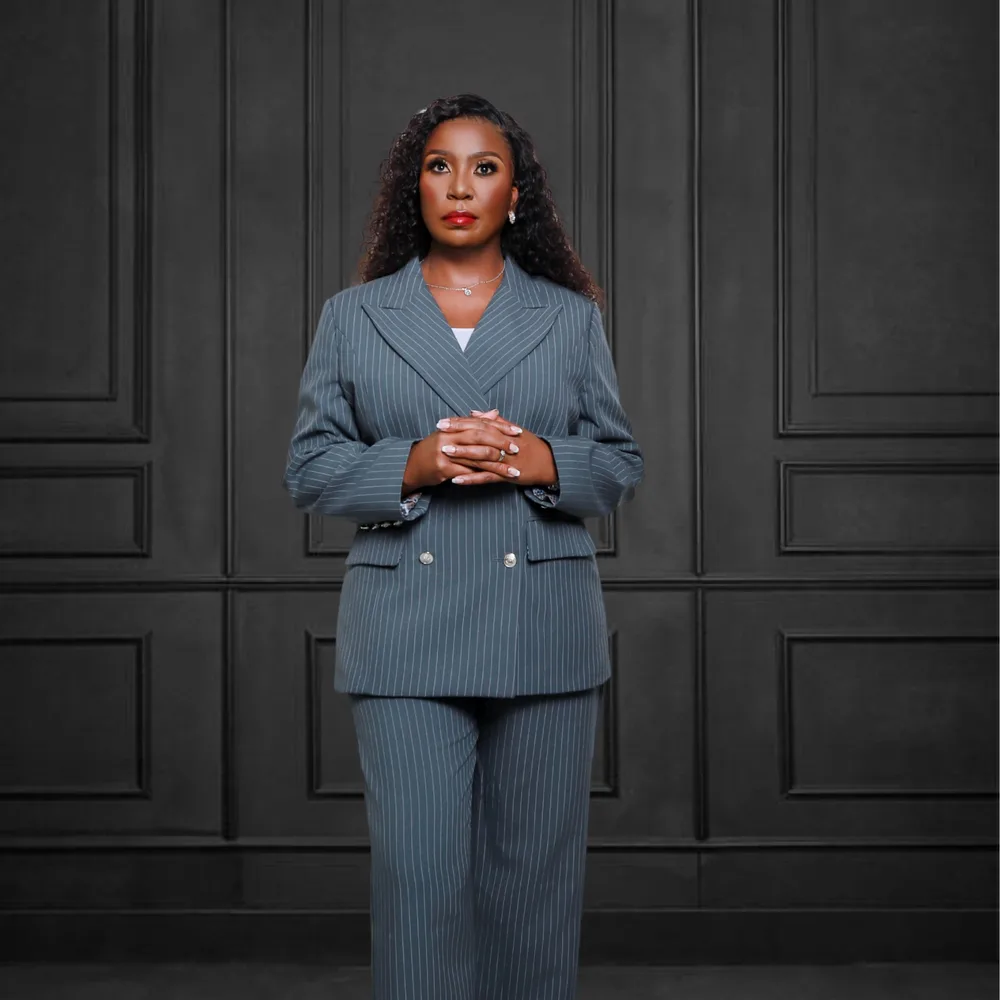
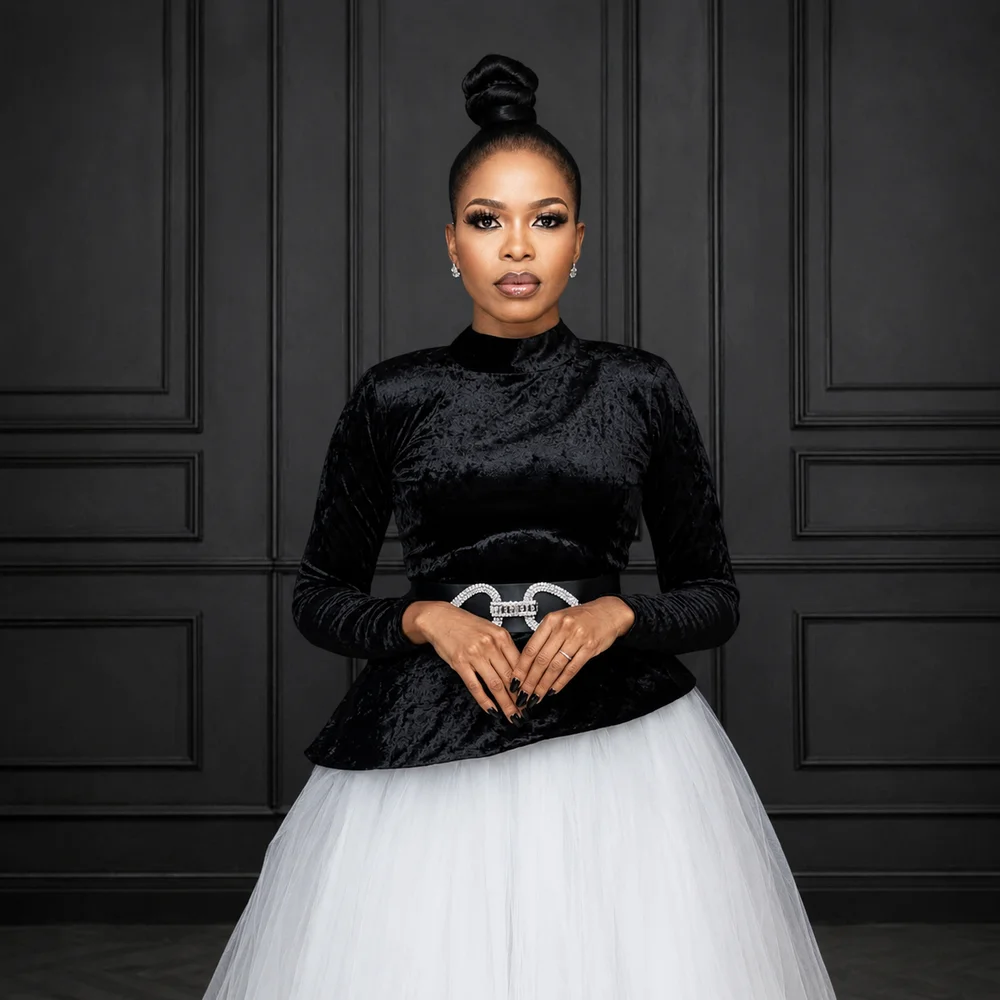
Complete Vonga Three-Piece with 3 more kimono sets, update lookbook photo
Add Blue Marble, Red Flame, and Lavender Floral jacquard kimono sets to
Vonga Three-Piece (each with front/close-up/back views), bringing the
category to its full 4 products. Replace the fourth lookbook photo
(previously the pinstripe suit shot) with a new black velvet peplum and
tulle skirt look.

diff --git a/lib/vonga.ts b/lib/vonga.ts
@@ -91,6 +91,9 @@ export const vongaProducts: VongaProduct[] = [
   { id: "emerald-front-zip-signature-suit", name: "Emerald Front-Zip Signature Suit", category: "Tailoring", price: 4800, image: "/vonga/images/products/emerald-front-zip-signature-suit.webp", description: "A sculpted front-zip tunic with cap sleeves and structured shoulders, paired with tailored trousers.", details: ["Front-zip closure", "Structured cap sleeve", "Tailored trouser"], sizes: ["XS","S","M","L","XL"], colours: ["Emerald"], style: "signature-suit" },
   { id: "royal-blue-front-zip-signature-suit", name: "Royal Blue Front-Zip Signature Suit", category: "Tailoring", price: 4800, image: "/vonga/images/products/royal-blue-front-zip-signature-suit.webp", description: "A sculpted front-zip tunic with cap sleeves and structured shoulders, paired with tailored trousers.", details: ["Front-zip closure", "Structured cap sleeve", "Tailored trouser"], sizes: ["XS","S","M","L","XL"], colours: ["Royal Blue"], style: "signature-suit" },
   { id: "emerald-jacquard-kimono-set", name: "Emerald Jacquard Kimono Set", category: "Occasionwear", price: 4600, image: "/vonga/images/products/emerald-jacquard-kimono-set.webp", secondaryImages: ["/vonga/images/products/emerald-jacquard-kimono-set-closeup.webp", "/vonga/images/products/emerald-jacquard-kimono-set-back.webp"], description: "An oversized metallic jacquard kimono duster layered over a matching emerald satin top and trouser.", details: ["Oversized jacquard duster", "Matching satin top and trouser", "Made in Pretoria"], sizes: ["XS","S","M","L","XL"], colours: ["Emerald / Gold"], style: "three-piece" },
+  { id: "blue-marble-jacquard-kimono-set", name: "Blue Marble Jacquard Kimono Set", category: "Occasionwear", price: 4600, image: "/vonga/images/products/blue-marble-jacquard-kimono-set.webp", secondaryImages: ["/vonga/images/products/blue-marble-jacquard-kimono-set-closeup.webp", "/vonga/images/products/blue-marble-jacquard-kimono-set-back.webp"], description: "An oversized marbled jacquard kimono duster layered over a matching royal blue satin top and trouser.", details: ["Oversized jacquard duster", "Matching satin top and trouser", "Made in Pretoria"], sizes: ["XS","S","M","L","XL"], colours: ["Blue / White"], style: "three-piece" },
+  { id: "red-flame-jacquard-kimono-set", name: "Red Flame Jacquard Kimono Set", category: "Occasionwear", price: 4600, image: "/vonga/images/products/red-flame-jacquard-kimono-set.webp", secondaryImages: ["/vonga/images/products/red-flame-jacquard-kimono-set-closeup.webp", "/vonga/images/products/red-flame-jacquard-kimono-set-back.webp"], description: "An oversized flame-print jacquard kimono duster layered over a matching red satin top and trouser.", details: ["Oversized jacquard duster", "Matching satin top and trouser", "Made in Pretoria"], sizes: ["XS","S","M","L","XL"], colours: ["Red / Cream"], style: "three-piece" },
+  { id: "lavender-floral-jacquard-kimono-set", name: "Lavender Floral Jacquard Kimono Set", category: "Occasionwear", price: 4600, image: "/vonga/images/products/lavender-floral-jacquard-kimono-set.webp", secondaryImages: ["/vonga/images/products/lavender-floral-jacquard-kimono-set-closeup.webp", "/vonga/images/products/lavender-floral-jacquard-kimono-set-back.webp"], description: "An oversized floral jacquard kimono duster layered over a matching lavender satin top and trouser.", details: ["Oversized jacquard duster", "Matching satin top and trouser", "Made in Pretoria"], sizes: ["XS","S","M","L","XL"], colours: ["Lavender / Black"], style: "three-piece" },
 ];
 
 export const formatRand = (value: number) => `R${value.toLocaleString("en-ZA")}`;
@@ -99,7 +102,7 @@ export type VongaCategoryStyle = { slug: string; name: string; description: stri
 
 export const vongaCategoryStyles: VongaCategoryStyle[] = [
   { slug: "signature-suit", name: "Signature Suit", description: "Sharp front-zip suiting for a modern power silhouette.", count: 4 },
-  { slug: "three-piece", name: "Three-Piece", description: "Coordinated kimono and suit sets for a layered statement.", count: 1 },
+  { slug: "three-piece", name: "Three-Piece", description: "Coordinated kimono and suit sets for a layered statement.", count: 4 },
   { slug: "chic-gems", name: "Chic Gems", description: "Sequins, sparkle and jewel tones for entrances that get remembered.", count: 12 },
   { slug: "brides", name: "White", description: "Sculpted white and ivory silhouettes for the aisle and beyond.", count: 2 },
   { slug: "kimonos", name: "Kimonos", description: "Statement duster jackets in bold print and drape.", count: 6 },